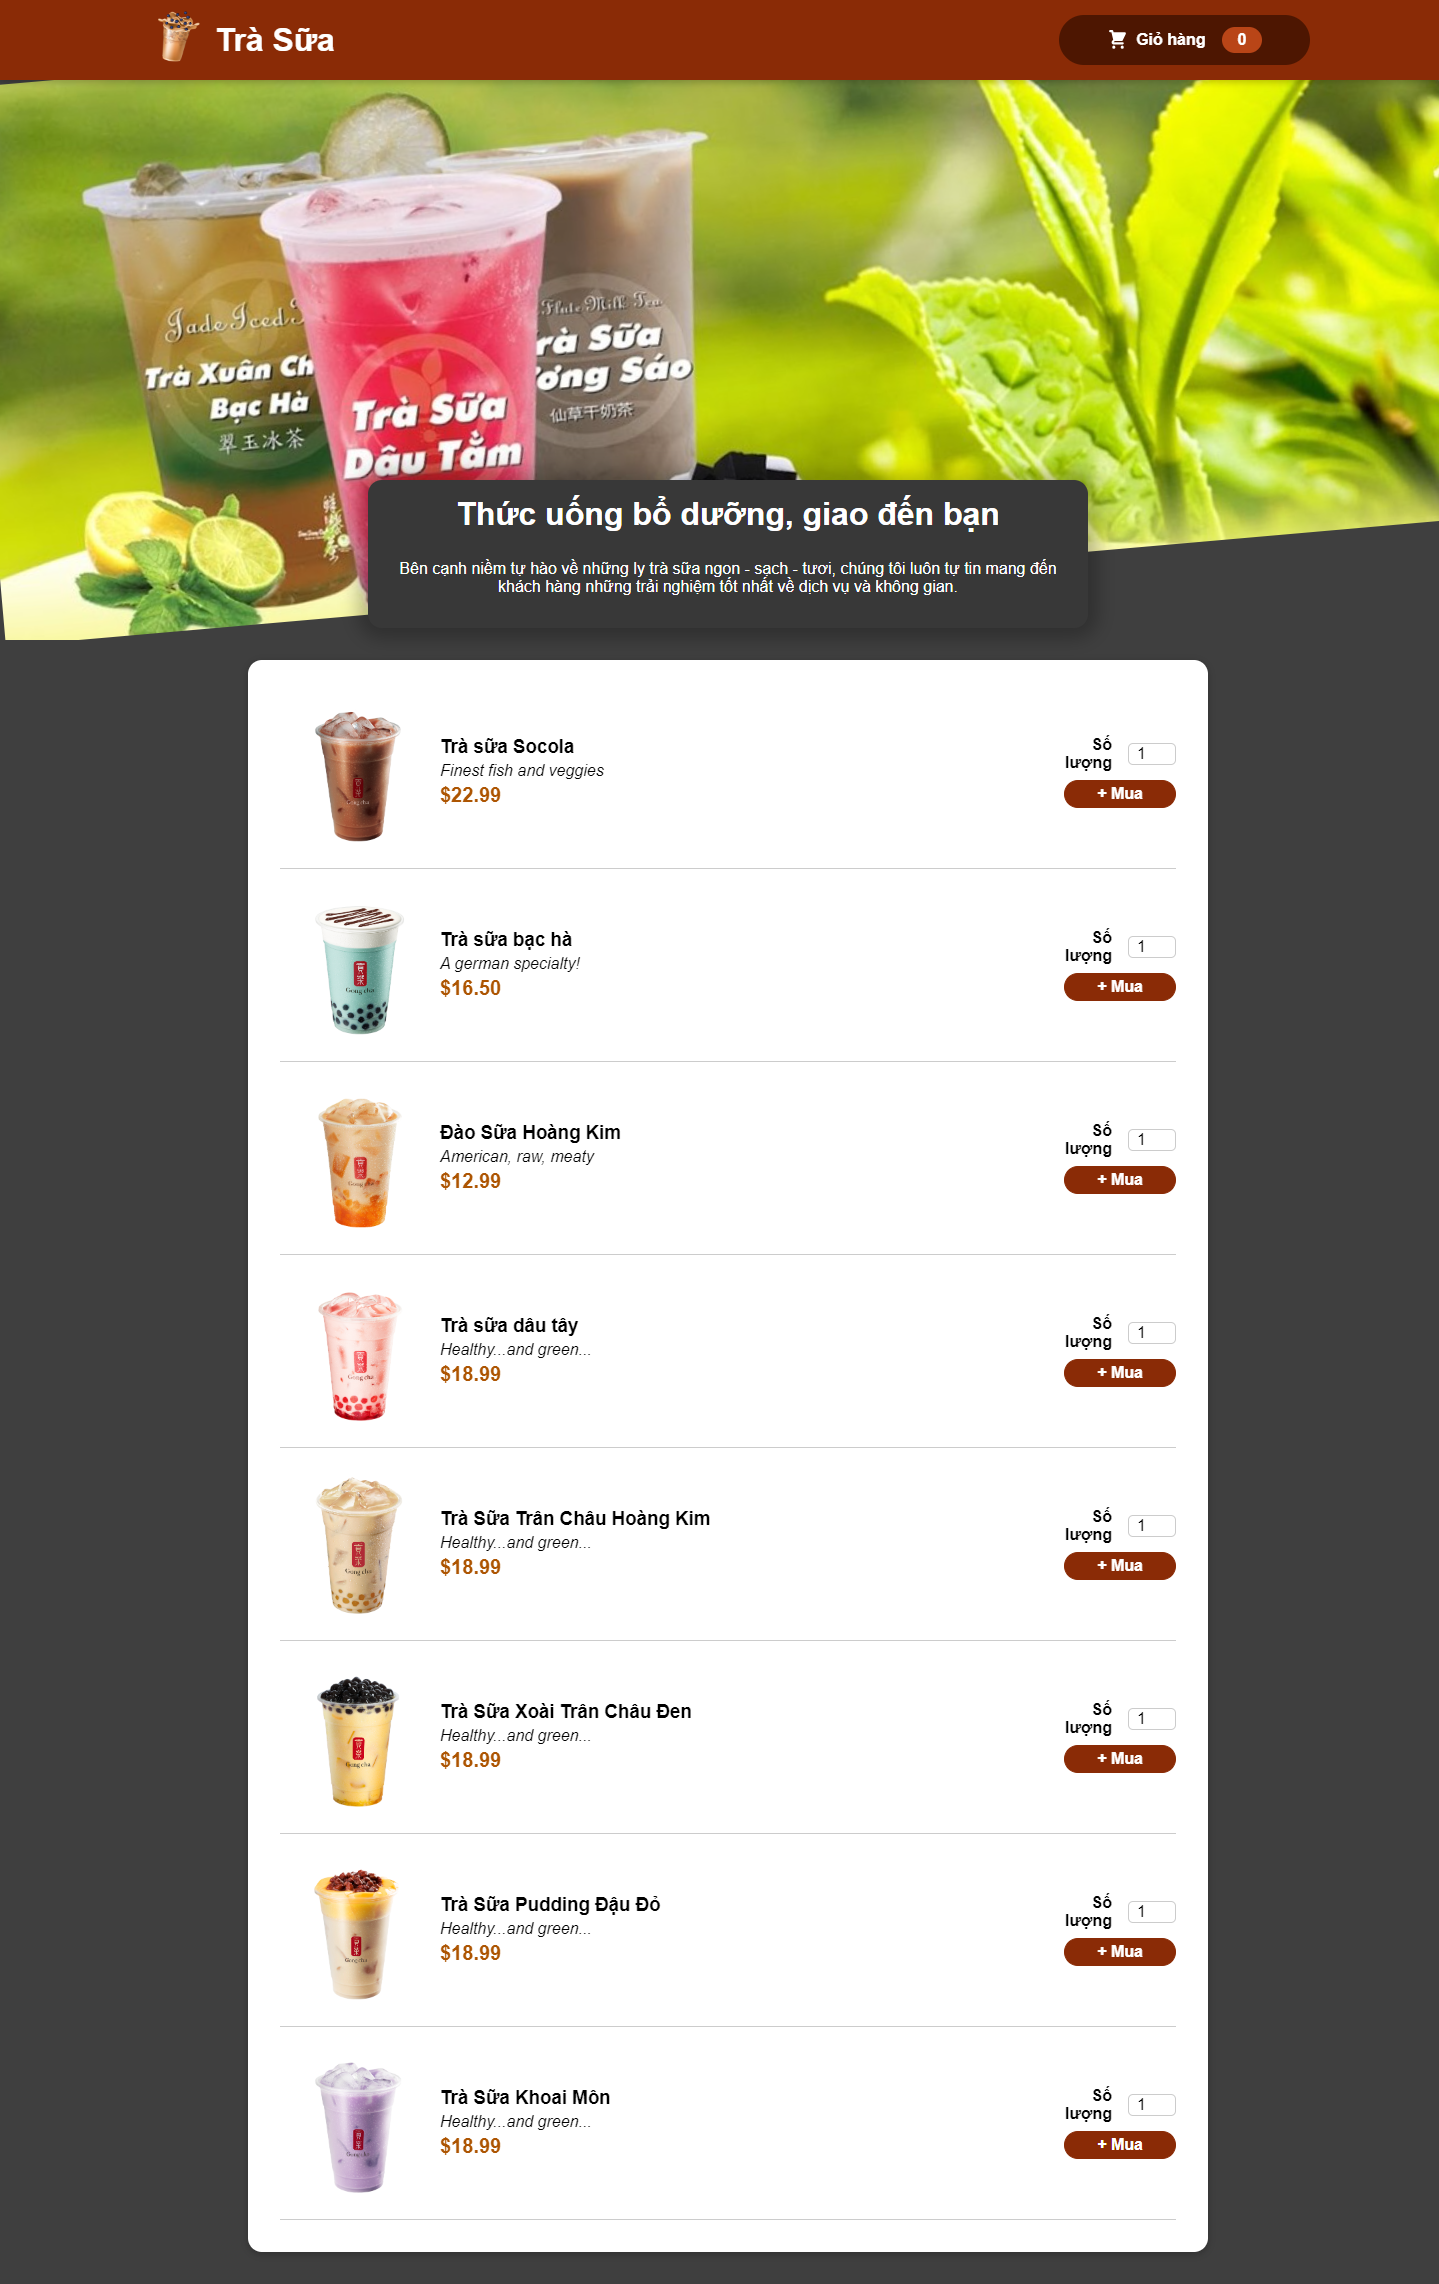
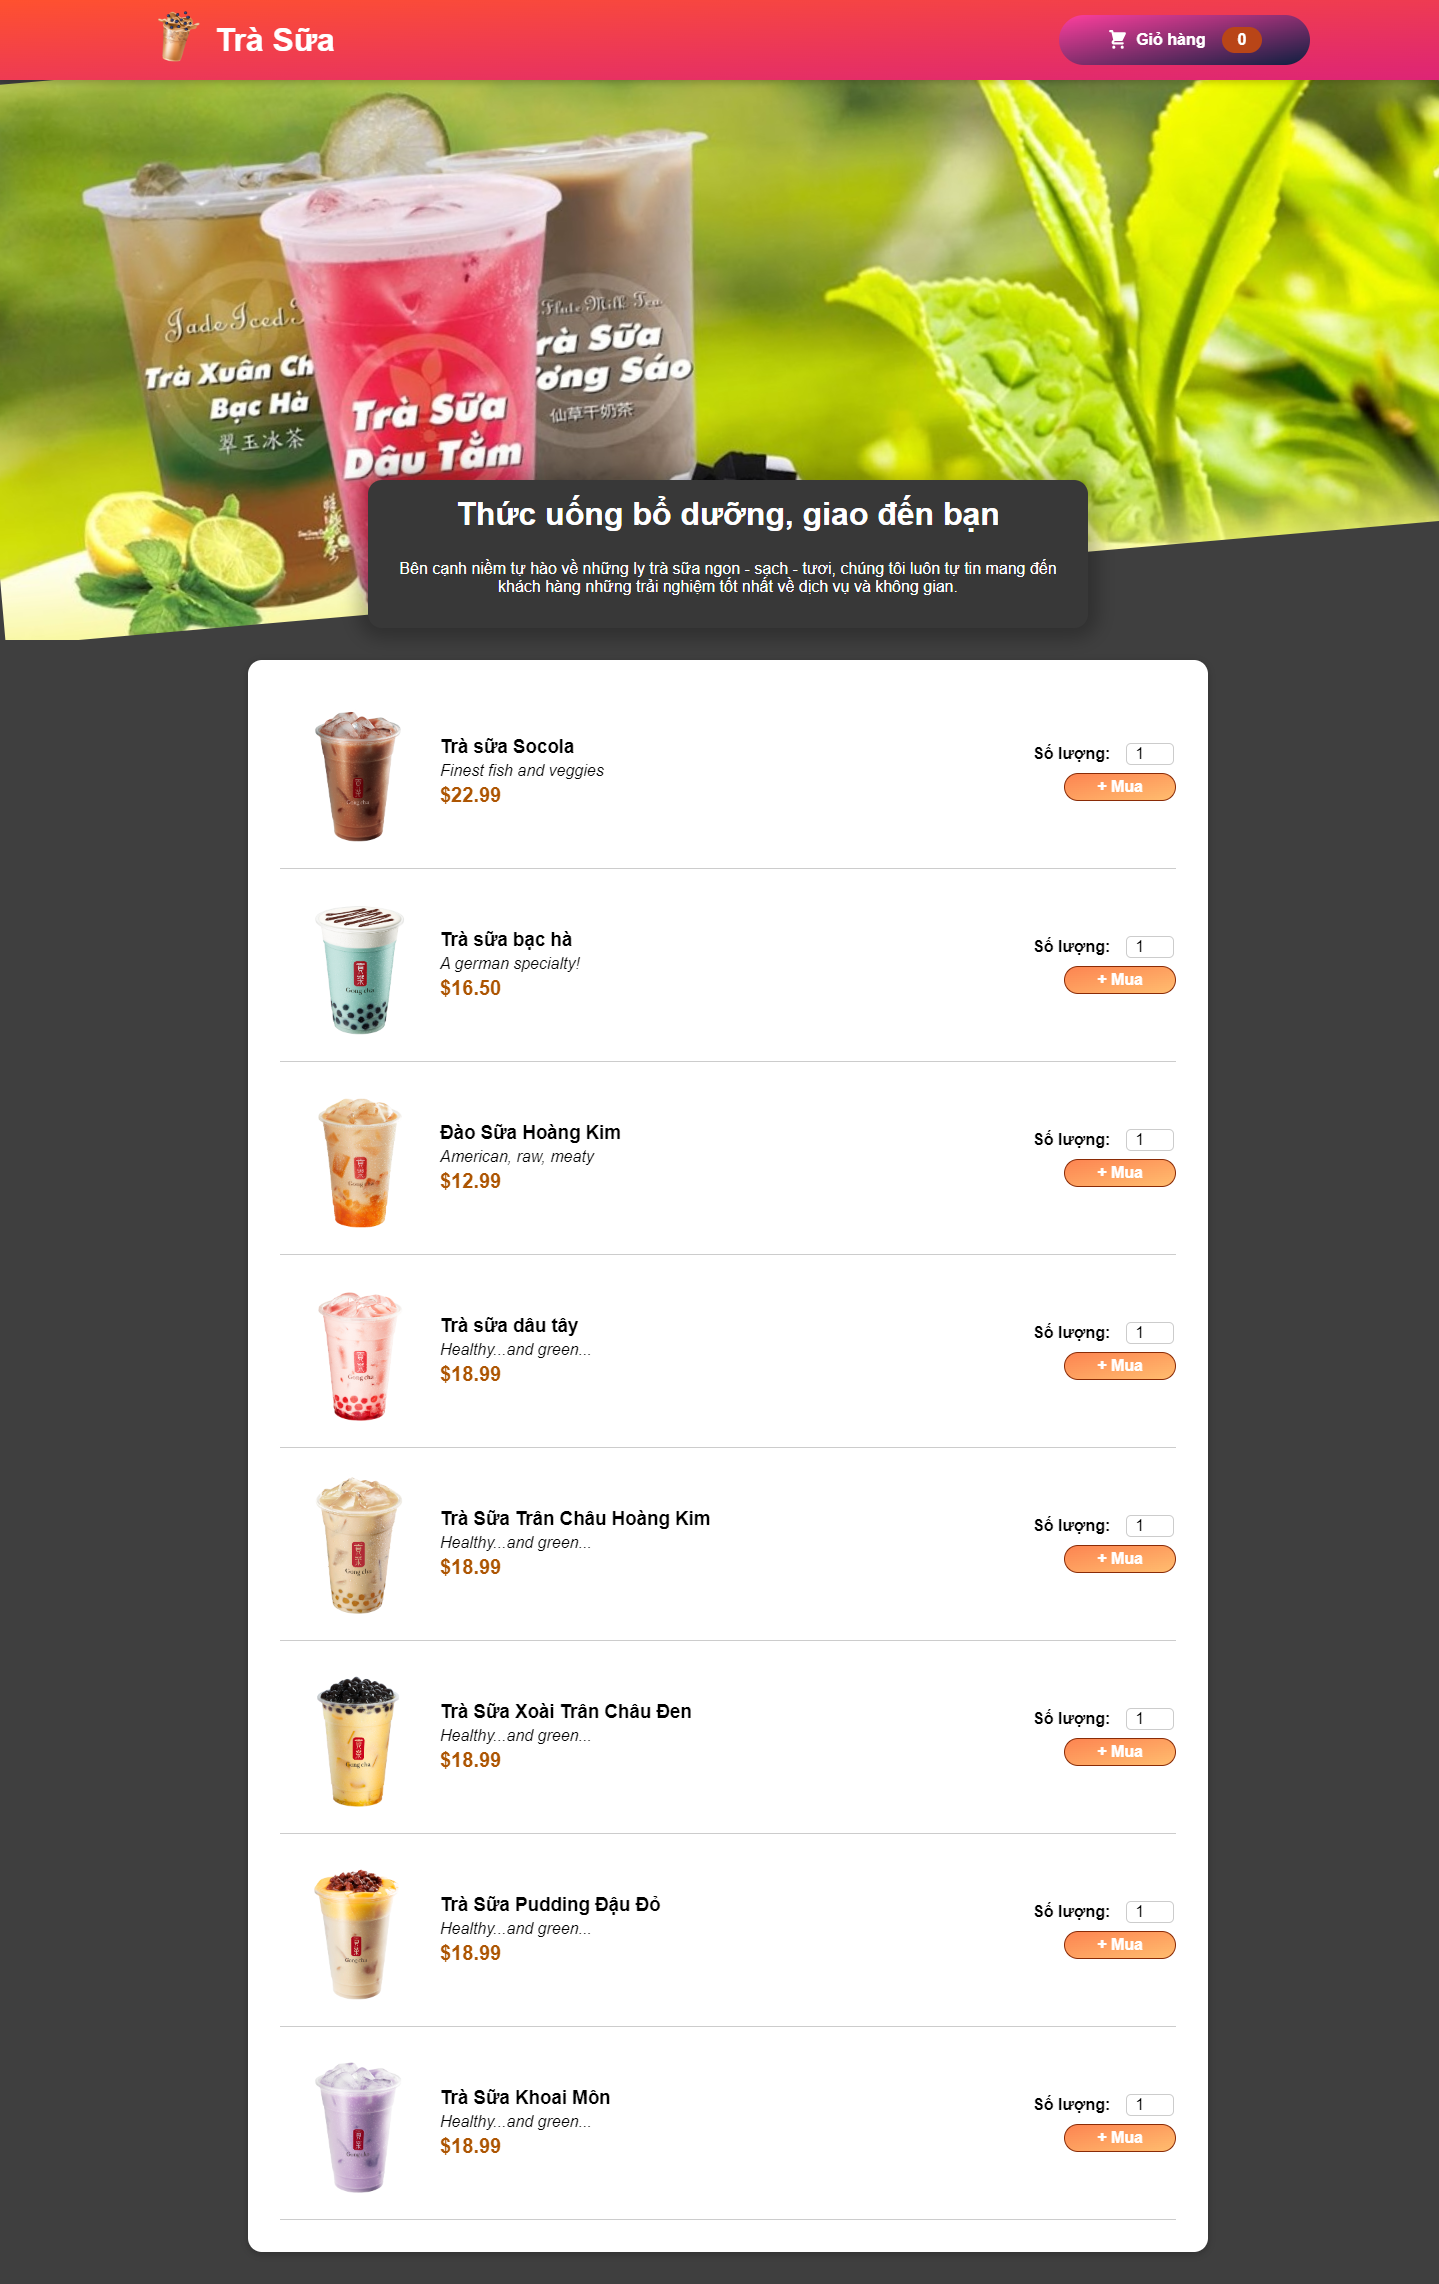
update

diff --git a/src/components/Layout/HeaderCartButton.module.scss b/src/components/Layout/HeaderCartButton.module.scss
@@ -2,7 +2,8 @@
   cursor: pointer;
   font: inherit;
   border: none;
-  background-color: #4d1601;
+  background-image: linear-gradient(to bottom right, #FF3E9D, #0E1F40);
+  // background-image: linear-gradient(to bottom right, #FD8451, #FFBD6F);
   color: white;
   padding: 0.75rem 3rem;
   display: flex;
@@ -33,7 +34,8 @@
 
 .button:hover .badge,
 .button:active .badge {
-  background-color: #92320c;
+  background-image: linear-gradient(to bottom right, #FF61D2, #FE9090);
+
 }
 
 .bump {

diff --git a/src/components/Meals/MealItem/MealItemForm.module.scss b/src/components/Meals/MealItem/MealItemForm.module.scss
@@ -1,11 +1,13 @@
 .form {
   text-align: right;
+  width: 170px;
 }
 
 .form button {
   font: inherit;
   cursor: pointer;
-  background-color: #8a2b06;
+  // background-image: linear-gradient(to bottom right, #FDFCFB, #E2D1C3);
+  background-image: linear-gradient(to bottom right, #FD8451, #FFBD6F);
   border: 1px solid #8a2b06;
   color: white;
   padding: 0.25rem 2rem;

diff --git a/src/components/Meals/MealItem/MealItemForm.tsx b/src/components/Meals/MealItem/MealItemForm.tsx
@@ -34,7 +34,7 @@ const MealItemForm = (props: any) => {
     <form className={classes.form} onSubmit={submitHandler}>
       <Input
         ref={amountInputRef}
-        label="Số lượng"
+        label="Số lượng:"
         input={{
           id: "amount_" + props.id,
           type: "number",

diff --git a/src/components/Layout/Header.module.scss b/src/components/Layout/Header.module.scss
@@ -4,7 +4,7 @@
   left: 0;
   width: 100%;
   height: 5rem;
-  background-color: #8a2b06;
+  background-image: linear-gradient(to bottom right, #FF512F, #DD2476);
   color: white;
   display: flex;
   justify-content: space-between;

diff --git a/src/components/Meals/MealItem/MealItem.module.scss b/src/components/Meals/MealItem/MealItem.module.scss
@@ -20,3 +20,8 @@
   color: #ad5502;
   font-size: 1.25rem;
 }
+@media screen and (max-width: 600px) {
+  .meal{
+    flex-direction: column;
+  }
+}

diff --git a/src/components/UI/Input.module.scss b/src/components/UI/Input.module.scss
@@ -1,5 +1,5 @@
 .input {
-  width: 120px;
+  width: 100%;
   display: flex;
   align-items: center;
   margin-bottom: 0.5rem;

diff --git a/src/components/Meals/AvailableMeals.module.scss b/src/components/Meals/AvailableMeals.module.scss
@@ -22,3 +22,4 @@
     transform: translateY(0);
   }
 }
+
